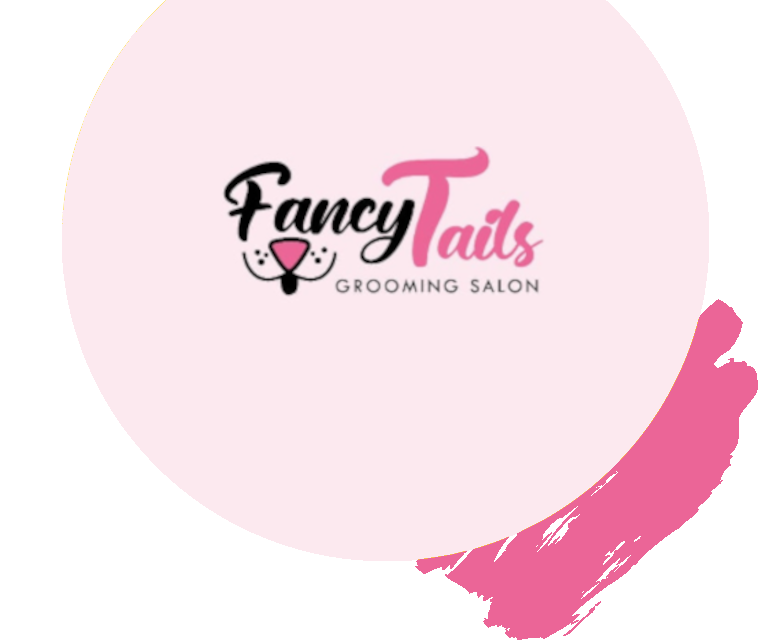
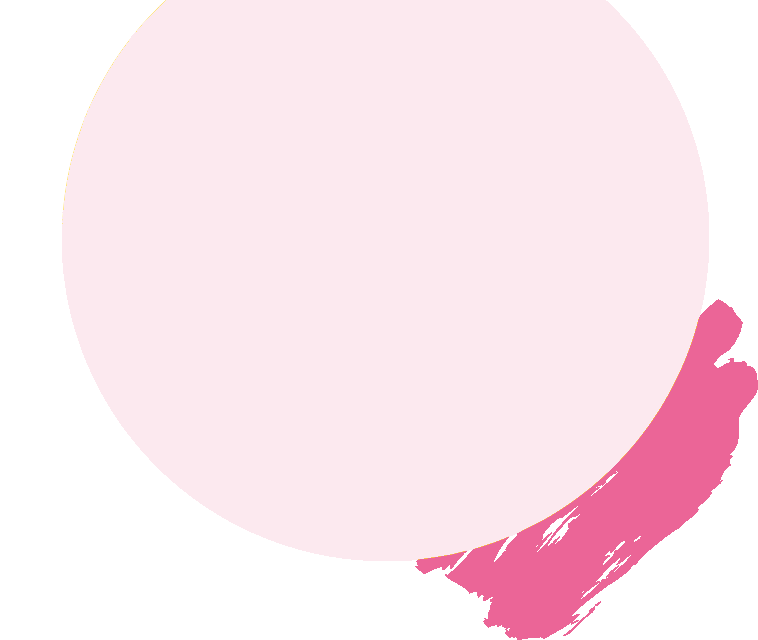
navbar fixed

Changed region(s): [[0.2731, 0.2188, 0.7282, 0.4688]]

diff --git a/docs/index.html b/docs/index.html
@@ -7,7 +7,6 @@
 	<link rel="preconnect" href="https://fonts.gstatic.com">
 	<link href="https://fonts.googleapis.com/css2?family=Roboto&display=swap" rel="stylesheet">
 	<link rel="stylesheet" href="css/general.css">
-	<link rel="stylesheet" href="css/styles.css">
 	<link rel="stylesheet" href="css/navbar.css">
 	<link rel="stylesheet" href="css/hero.css">
 	<link rel="stylesheet" href="css/products.css">
@@ -61,16 +60,12 @@
 		</div>
 	</header>
 		<div class="hero-section">
-			<img src="images/aaa.png" id="hero-logo">
-			<p id="hero-slogan"><b>Todo el amor que tu mascota merece.</b></p>
-			<button id="hero-cita">Agendar cita</button>
-			<button id="hero-prices">Precios y Servicios</button>
-			<!-- <button id="conocenos-btn">Conócenos</button> -->
-			<div class="hero-mobile">
-				<img id="hero-logo-mobile" src="images/logo.png" >
-				
-			</div>
-		</div> 
+				<img src="images/aaa.png" id="hero-background-circle">
+					<img id="hero-logo" src="images/logo.png" >
+					<p id="hero-slogan"><b>Todo el amor que tu mascota merece.</b></p>
+					<button id="hero-cita">Agendar cita</button>
+					<button id="hero-prices">Precios y Servicios</button>
+			</div> 
 		<div class="products-section">
 			<h1 id="products-title">Baño</h1>
 			<div class="precio-corte">
@@ -128,14 +123,14 @@
 				<h3>Pelo largo 200$</h3>
 			</div>
 		</div>
-		
+		<img  id="products-mobile" src="images/fancytails.jpg" style="width: 100%;">
 		<div class="vip">
 			<div style="width: 100%; background-color: white; height: 50px; margin-top: 40px; padding: 5px; display: inline-flex;">
 				<h1 style="margin: auto;">Servicios V.I.P. &nbsp;<i class="far fa-star"></i>
 				</h1>
 			</div>	
 			<!-- <div class="vip-products">
-				<div class="vip-item">
+				<div class="vinc-item">
 					<h3>Paticure</h3>
 					<img src="images/paticure.jpg">
 					<p>15$</p>

diff --git a/docs/main.js b/docs/main.js
@@ -1,1 +1,1 @@
-(()=>{document.addEventListener("DOMContentLoaded",(function(){new Splide("#vip-slide",{perPage:4,rewind:!0,autoplay:!0,interval:3e3,breakpoints:{700:{perPage:2}}}).mount()}));var e=new Splide("#clientes-secondary-slider",{rewind:!0,fixedWidth:100,fixedHeight:64,isNavigation:!0,autoplay:!0,interval:3e3,gap:10,focus:"center",pagination:!1,cover:!0,direction:"ttb",heightRatio:4.4,breakpoints:{800:{fixedWidth:80,fixedHeight:60},425:{arrows:!1}}}).mount();new Splide("#clientes-slider",{type:"fade",heightRatio:1.3,fixedWidth:"25vw",pagination:!1,arrows:!1,cover:!0,breakpoints:{1100:{fixedWidth:"30vw",heightRatio:1.6},800:{fixedWidth:"50vw",heightRatio:1.6},425:{pagination:!0,fixedWidth:"60vw",heightRatio:1.7}}}).sync(e).mount()})();
+(()=>{document.addEventListener("DOMContentLoaded",(function(){new Splide("#vip-slide",{perPage:4,rewind:!0,autoplay:!0,interval:3e3,breakpoints:{700:{perPage:2}}}).mount()}));var e=new Splide("#clientes-secondary-slider",{rewind:!0,fixedWidth:100,fixedHeight:64,isNavigation:!0,autoplay:!0,interval:3e3,gap:10,focus:"center",pagination:!1,cover:!0,direction:"ttb",heightRatio:4.4,breakpoints:{800:{fixedWidth:80,fixedHeight:60},425:{arrows:!1,fixedHeight:60}}}).mount();new Splide("#clientes-slider",{type:"fade",heightRatio:1.3,fixedWidth:"25vw",pagination:!1,arrows:!1,cover:!0,breakpoints:{1100:{fixedWidth:"30vw",heightRatio:1.6},800:{fixedWidth:"50vw",heightRatio:1.6},425:{pagination:!0,fixedWidth:"70vw",heightRatio:1.7}}}).sync(e).mount()})();

diff --git a/docs/css/products.css b/docs/css/products.css
@@ -11,8 +11,9 @@
 
 /* Grid columns and backgroung for mobile */
 @media only screen and (max-width: 750px){
-
+  
   .products-section {
+    display: none;
     grid-template-columns: 5% auto 5%;
     grid-template-rows: 100px auto auto auto auto 20px auto auto auto 20px auto auto auto 20px auto auto auto 60px;
   }
@@ -96,7 +97,9 @@
 
 /* Grid columns and backgroung for tablets and desktop */
 @media only screen and (min-width: 751px){
-  
+  #products-mobile{
+    display: none;
+  }
   .products-section {
     min-height: 97vh;
     grid-template-columns: 5% auto 10px auto 10px auto 10px auto 5%;
@@ -187,20 +190,20 @@
 .vip {
   background-color: #eb6597;  
   justify-content: center;
-  display: block;
   padding-bottom: 3rem;
 }
 
-@media only screen and (max-width: 700px){  
+@media only screen and (max-width: 750px){  
   .vip-products {
     display: none;
   }  
   .vip{
     min-height:20vh;
+    display: none;
   }
 }
 
-@media only screen and (min-width: 701px){
+@media only screen and (min-width: 751px){
  /*  #vip-slide {
     display: none;
   } */
@@ -210,6 +213,9 @@
     grid-template-rows: repeat(2, 1fr);
     margin: 0 3rem;
   } */
+  .vip{
+    display: block;
+  }
 }
 
 .vip-item{

diff --git a/docs/css/hero.css b/docs/css/hero.css
@@ -1,5 +1,4 @@
 .hero-section {
-  
   height: 80vh;
   background-repeat: no-repeat;
   background-size: cover;
@@ -7,22 +6,13 @@
   background-attachment: fixed;
 }
 
-#hero-logo-mobile {
-  max-width: 100%;
-  overflow: visible ;
-}
-@media only screen and (min-width: 454px){
-  #hero-logo-mobile {
-    margin-top: -28px
-  }
-}
 
 @media only screen and (max-width: 750px){
-  #hero-logo {
+  #hero-background-circle {
     display: none;
   }
-  #conocenos-btn{
-    display: none;
+  #hero-logo {
+    max-width: 100%;
   }
   .hero-mobile{
     border-radius: 10px;
@@ -43,6 +33,13 @@
     display: none;
   }
   #hero-logo {
+    position: absolute;
+    bottom: 111px;
+    left: 184px;
+    max-width: 398px;
+    border-radius: 100px;
+  }
+  #hero-background-circle{
     max-width: 100%; 
     height: auto; 
     display: block;
@@ -76,16 +73,5 @@
     background-color: white;
     font-size: 18px;
     padding: 8px;
-  }
-  #conocenos-btn{
-    display: block;
-    margin-left: 235px;
-    margin-top: -319px;
-    position: absolute;
-    font-size: 63px;
-    background-color: rgb(254, 221, 98);
-    border: none;
-    color: rgb(244, 139, 72);
-    font-family: 'Lilita One', cursive;
   }
 }

diff --git a/docs/css/navbar.css b/docs/css/navbar.css
@@ -178,7 +178,17 @@ article h2 {
   }
   #main-menu-toggle {
     height: fit-content;
-    margin: auto 0 auto auto;
+    margin: auto 0;
+    color: black;
+    position: absolute;
+    left: 0;
+    top: 51px;
+  }
+  .logo{
+    margin: auto;
+  }
+  header{
+    direction: rtl;
   }
 } 
 
@@ -188,7 +198,8 @@ article h2 {
     display: flex;
     flex-direction: row;
     justify-content: flex-end;
-    align-items: center;;
+    align-items: center;
+    z-index: 1;
   }
   .nav-item{
     margin-left: 2rem;  

diff --git a/src/index.js b/src/index.js
@@ -31,7 +31,8 @@ var clientesSecondarySlider = new Splide( '#clientes-secondary-slider', {
 			fixedHeight : 60,
 		},
 		'425': {
-			arrows: false
+			arrows: false,
+			fixedHeight : 60,
 		}
 	}
 } ).mount();
@@ -55,7 +56,7 @@ var clientesSlider = new Splide( '#clientes-slider', {
 		},
 		'425':{
 			pagination: true,
-			fixedWidth  : "60vw",
+			fixedWidth  : "70vw",
 			heightRatio	: 1.7,
 		}
 	}

diff --git a/docs/css/examples.css b/docs/css/examples.css
@@ -29,8 +29,6 @@
     text-align: center;
     margin: 40px auto;
   }
-  .examples-sliders{
-  }
   .examples{
     display: block;
     text-align: center;

diff --git a/docs/css/general.css b/docs/css/general.css
@@ -1,6 +1,6 @@
 body{
   font-family: 'Roboto', sans-serif;
-  color: rgb(84, 84, 84);
+  color: black;
   margin: 0;
 }
 
